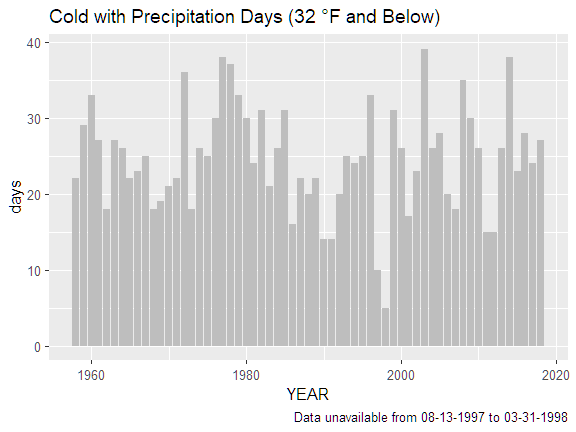
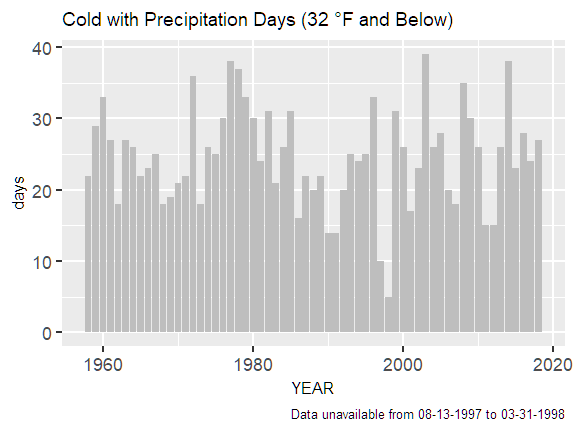
Correct image display after removing duplicate image names;
Resize fonts in image for legibility

diff --git a/README.md b/README.md
@@ -58,19 +58,18 @@ Consistent Days Between Heavy Rainfall
 - Cooling facilities for crews on hot days
 - Equipment maintenance challenges
 
-![Mean Temp](images/g.hotmonth.png)
+![Hot Month](images/g.hotmonth.png)
 
 - No statistical change in number of days above 100  °F
-![Mean Temp](images/g.hotdays.png)
-
+![Hot Days](images/g.hotdays.png)
 
 Consistent Number of Freezing Days
 - Freezing days increase potential for water line breakage
 - Number of lowest temperature days decreasing
 
-![Mean Temp](images/g.coldmonth)
-![Mean Temp](images/g.frezdays.png)
-![Mean Temp](images/g.g.subzdays.png)
+![Cold Month](images/g.coldmonth)
+![Freeze Days](images/g.frezdays.png)
+![SubZero Days](images/g.g.subzdays.png)
 
 ## Limitations of Analysis
 
